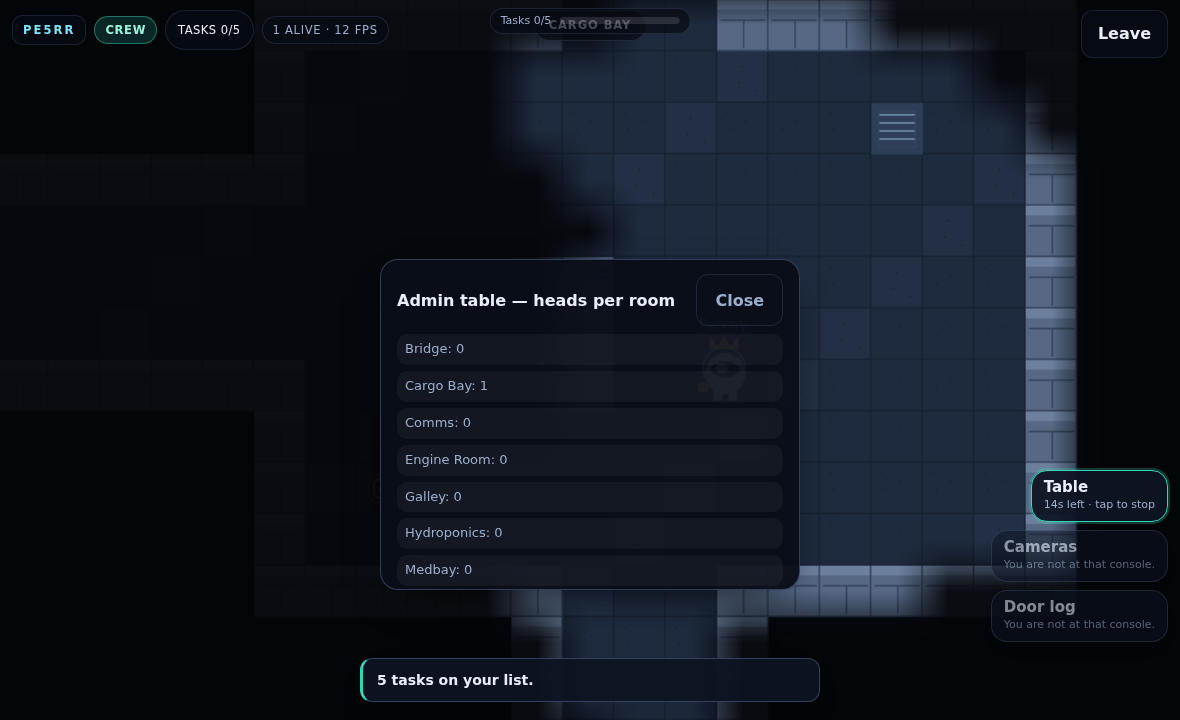
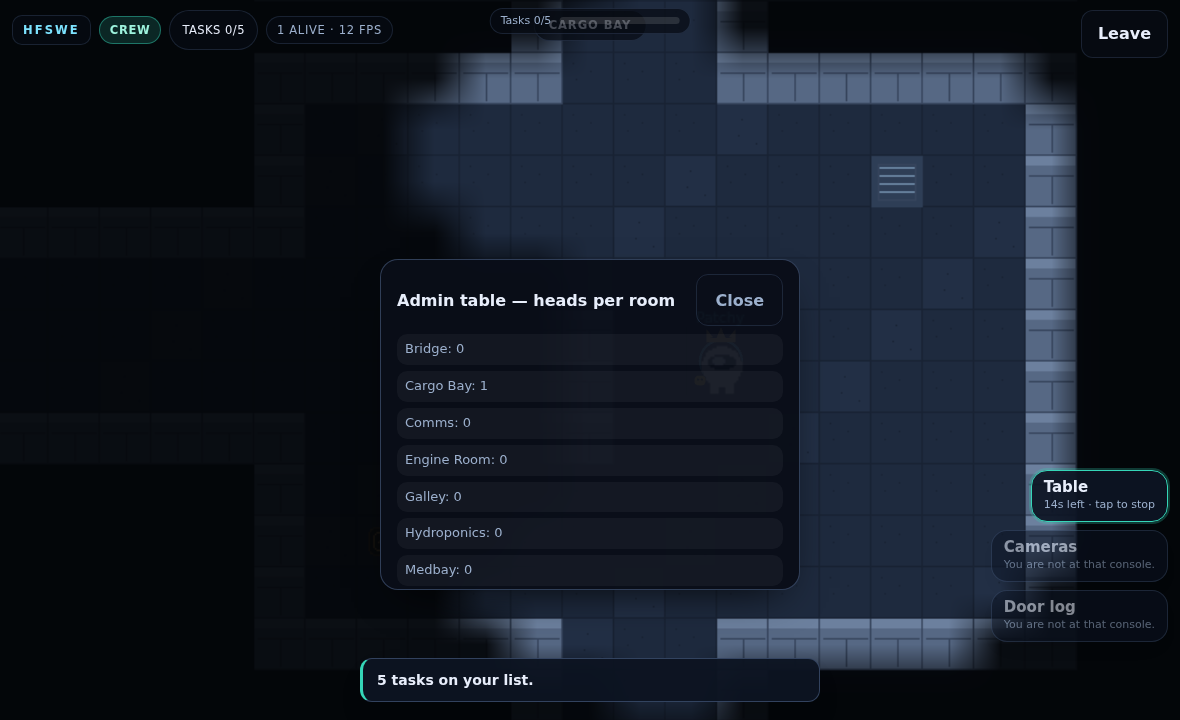
test: make the smoke and browser tests honest against a remote server
- smoke: wait for the room code instead of assuming a 150 ms patch (the free
  instance is in Singapore and the first patch can take longer)
- m35 client test: wait for the self pod before reading its cosmetics; the role
  card is DOM and can appear before the Phaser scene boots
- docs: record the live verification numbers and the pnpm-12 lockfile fix

diff --git a/apps/server/scripts/smoke.ts b/apps/server/scripts/smoke.ts
@@ -47,7 +47,10 @@ async function main(): Promise<void> {
 
   const owner = new Client(WS);
   const room1 = await owner.create('game', { name: 'Owner' });
-  await wait(150);
+  // The first patch can take longer than a local round trip (the free instance is
+  // in Singapore), so wait for the code instead of assuming 150 ms is enough.
+  const codeDeadline = Date.now() + 8000;
+  while (!room1.state.code && Date.now() < codeDeadline) await wait(50);
   const code = room1.state.code as string;
   if (!/^[A-HJ-NP-Z2-9]{5}$/.test(code)) throw new Error(`bad code: ${code}`);
   checks.push(`created room with code ${code}`);

diff --git a/docs/M3.5-REPORT.md b/docs/M3.5-REPORT.md
@@ -41,6 +41,14 @@ the settings a host needs; free-roam practice, quick chat, cosmetics).
 | Unit tests (roles, abilities, task plans, vision, rules) | `pnpm test` | **93/93, 7 files** |
 | Real browser, real clicks (cosmetics → practice → role card → task categories → room-gated tools → admin table) | `node scripts/m35-client-test.mjs` | **PASS, 8 checks** |
 
+**Verified live** (after Render redeployed `6d0ccc3`):
+`/healthz` → `{"ok":true,"app":"AImong Us","milestone":"M3.5","version":"0.5.0"}`;
+the 21-check wire playthrough ran against `https://aimong-us.onrender.com`
+(**PASS**) and so did the 8-check browser test (**PASS**). The smoke test stops at
+its owner-console step in production because there is no `CONSOLE_KEY` set there
+and the console fails closed by design — that is the documented production state,
+not a regression.
+
 The wire test also asserts that **no player row carries a role** and that a shift
 never leaks the shifter's own name to a crewmate — the only role channel is the
 private `you` packet.
@@ -60,10 +68,16 @@ private `you` packet.
 4. **The Warden's 10 s ward expired** while the killer crossed the station; the
    test now positions first and wards second. (A real design note too: the ward is
    short on purpose — it is a reaction, not a bubble.)
-5. **Lobby chat was refused.** The new `say()` router treated "not in a meeting"
+5. **The Render build failed twice on the lockfile.** `ERR_PNPM_FROZEN_LOCKFILE_WITH_OUTDATED_LOCKFILE`:
+   pnpm 12 (which the build installs) refuses a lockfile that does not record its
+   own `packageManagerDependencies`, and a plain `pnpm add playwright` in this
+   sandbox rewrote the lockfile with pnpm 9's format. The committed lockfile is
+   now pnpm 12.16.1's own output and Playwright is not a repo dependency
+   (`DECISIONS.md` 26). Reproduced and verified in a clean clone before pushing.
+6. **Lobby chat was refused.** The new `say()` router treated "not in a meeting"
    as "no chat", which broke lobby chat — the smoke test caught it. Lobby and
    results screens now have open chat.
-6. **The host's role chances leaked into a leak check.** Settings are public by
+7. **The host's role chances leaked into a leak check.** Settings are public by
    design (`engineerChance` is not a secret); the check now inspects player rows
    only.
 

diff --git a/STATUS.md b/STATUS.md
@@ -23,10 +23,16 @@ Last updated: 2026-11-01 · Milestone: **M3.5 (full role + feature set) COMPLETE
   (hats/skins/pets/nameplates) with a device-saved picker.
 - **New HUD:** role card, ability bar with live cooldowns and truthful refusals,
   category chips + stage counters, tool sheets, sabotage pointers, ghost chat.
-- **Measured acceptance:** M3.5 PLAYTHROUGH PASS **21 checks** (8 SDK clients, no
-  role ever in public state), SMOKE PASS **22 checks**, unit tests **93/93**,
-  browser test **PASS 8 checks** (cosmetics → practice → role card → task
-  categories → room-gated tools → admin table).
+- **Measured acceptance (local):** M3.5 PLAYTHROUGH PASS **21 checks** (8 SDK
+  clients, no role ever in public state), SMOKE PASS **22 checks**, unit tests
+  **93/93**, browser test **PASS 8 checks**.
+- **Verified LIVE** on `https://aimong-us.onrender.com` after the deploy of
+  `6d0ccc3`: `/healthz` = `M3.5 / 0.5.0`, the 21-check wire playthrough **PASS**,
+  the 8-check browser test **PASS**. The smoke test stops at its owner-console step
+  in production because no `CONSOLE_KEY` is set there (fails closed by design).
+- **Deploy gotcha fixed:** pnpm 12 refuses a lockfile without its own
+  `packageManagerDependencies`, so the committed `pnpm-lock.yaml` is now pnpm
+  12.16.1's output and Playwright is not a repo dependency (`DECISIONS.md` 26).
 - Fixed six real bugs the tests found, two of them in the shared walker (details
   in `docs/M3.5-REPORT.md`).
 - **Still stand-in:** AI players take seats and roles but stand still; Tier 2 roles
